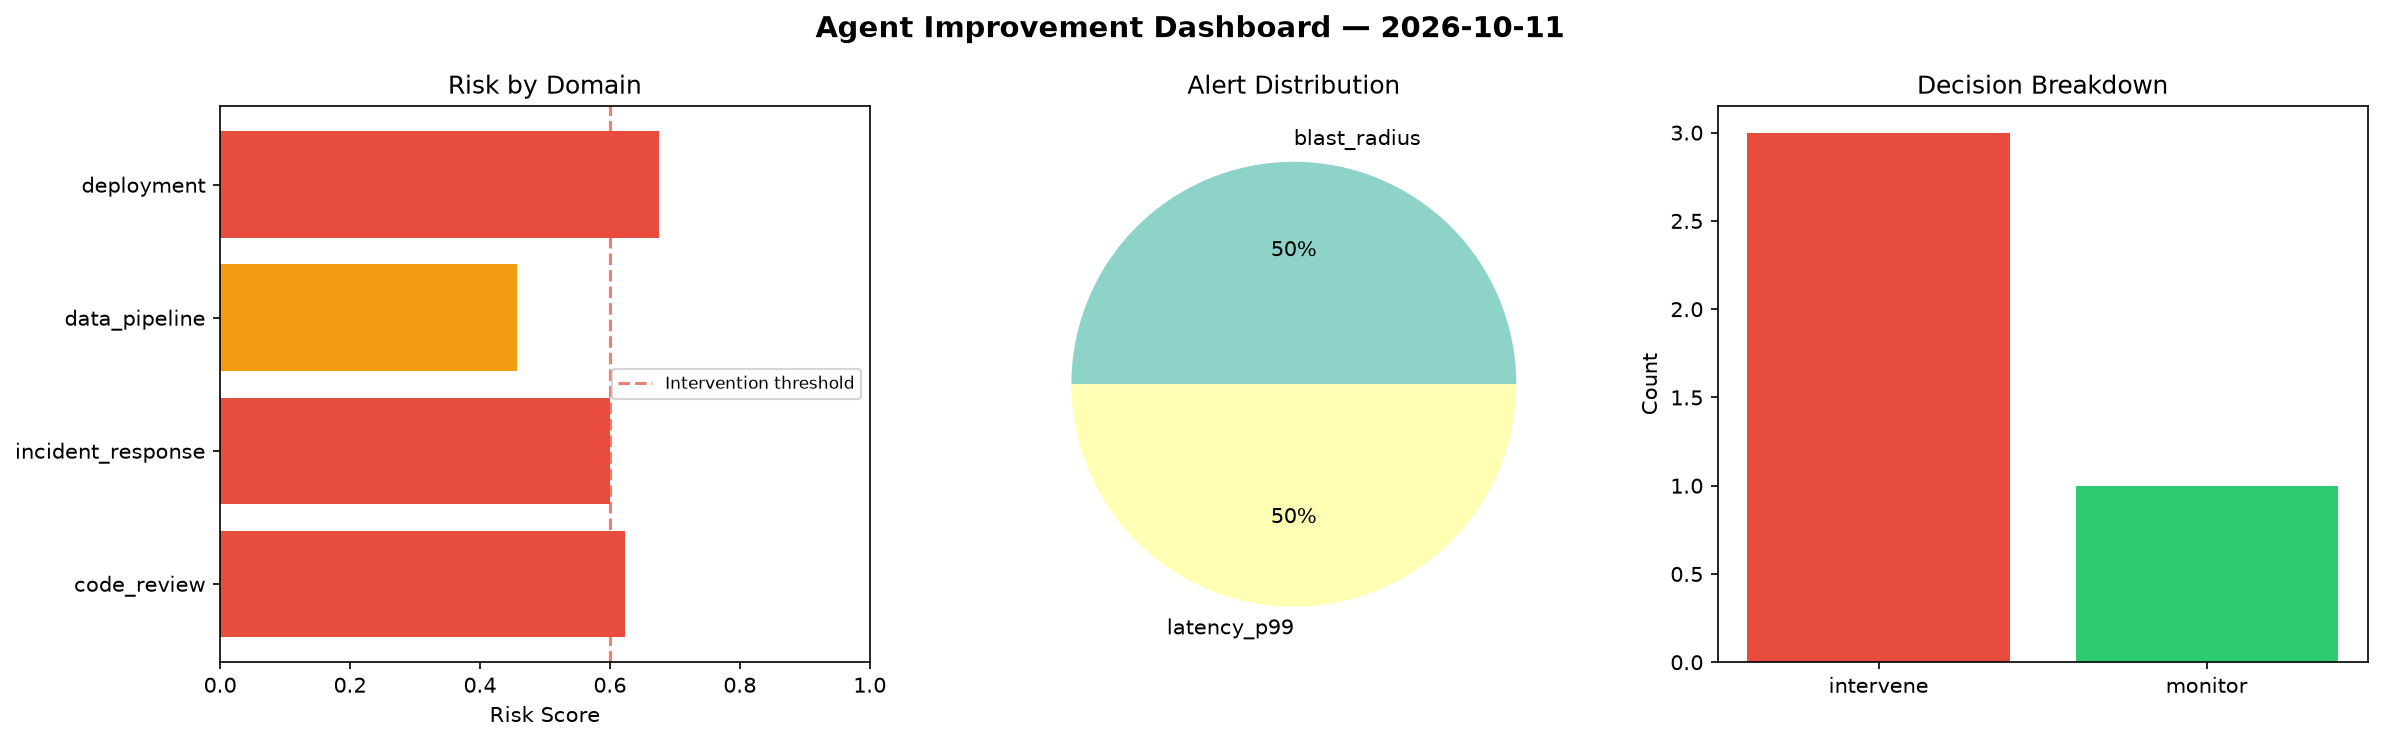
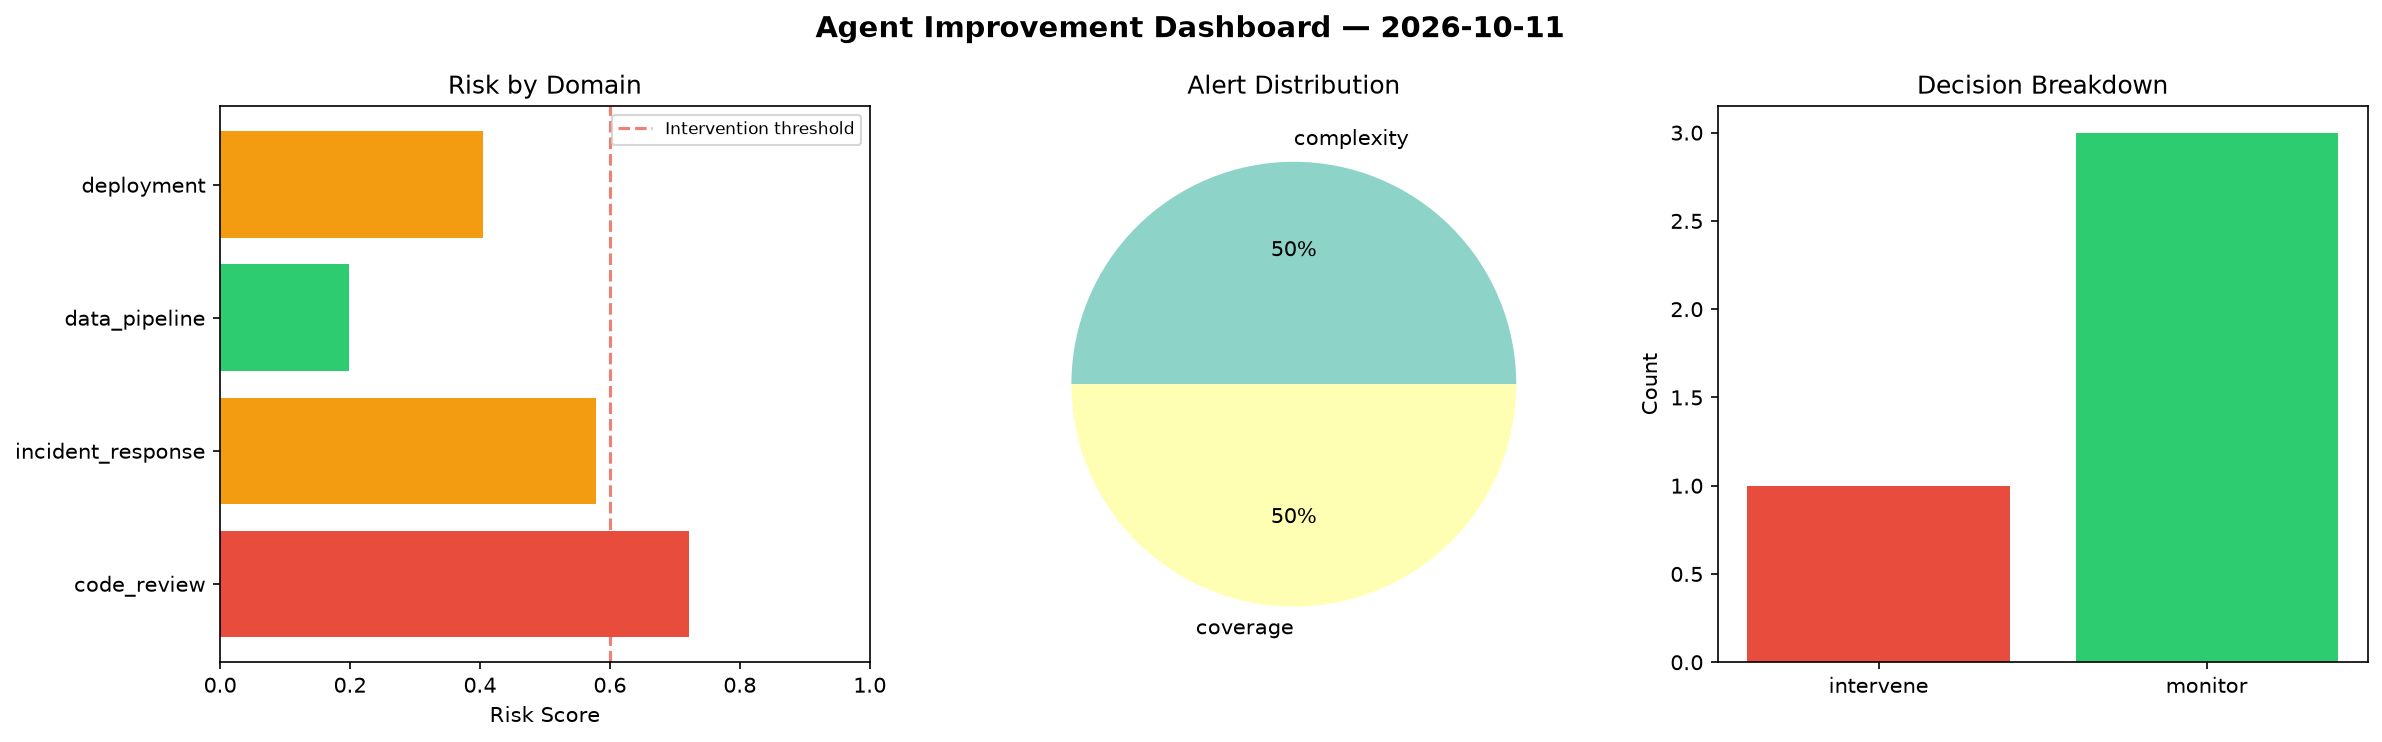
agent-improvement: daily cycle 2026-10-11T14:54

diff --git a/logs/2026-10-11.md b/logs/2026-10-11.md
@@ -1,6 +1,6 @@
 # Agent Improvement Report — 2026-10-11
 
-**Cycle ID:** `eaa58b36` | **Avg Risk:** 0.5894 | **Interventions:** 3/4
+**Cycle ID:** `82e1b64d` | **Avg Risk:** 0.4758 | **Interventions:** 1/4
 
 ![Dashboard](2026-10-11_dashboard.png)
 
@@ -10,18 +10,18 @@
 
 | Domain | Risk Score | Decision | Alerts |
 |--------|-----------|----------|--------|
-| code_review | 0.6238 | intervene | none |
-| incident_response | 0.6004 | intervene | blast_radius |
-| data_pipeline | 0.4575 | monitor | none |
-| deployment | 0.6757 | intervene | latency_p99 |
+| code_review | 0.7218 | intervene | complexity, coverage |
+| incident_response | 0.5784 | monitor | none |
+| data_pipeline | 0.1987 | monitor | none |
+| deployment | 0.4045 | monitor | none |
 
 ## Delta vs Yesterday
 
 | Domain | Today | Yesterday | Change |
 |--------|-------|-----------|--------|
-| code_review | 0.6238 | 0.7333 | 📉 -14.9% |
-| incident_response | 0.6004 | 0.7272 | 📉 -17.4% |
-| data_pipeline | 0.4575 | 0.3948 | 📈 15.9% |
-| deployment | 0.6757 | 0.5059 | 📈 33.6% |
+| code_review | 0.7218 | 0.7333 | 📉 -1.6% |
+| incident_response | 0.5784 | 0.7272 | 📉 -20.5% |
+| data_pipeline | 0.1987 | 0.3948 | 📉 -49.7% |
+| deployment | 0.4045 | 0.5059 | 📉 -20.0% |
 
-**Refinement:** `{'adjustment': 'tighten_thresholds', 'trend': 'degrading', 'window': 4}`
+**Refinement:** `{'adjustment': 'maintain', 'trend': 'improving', 'window': 4}`
